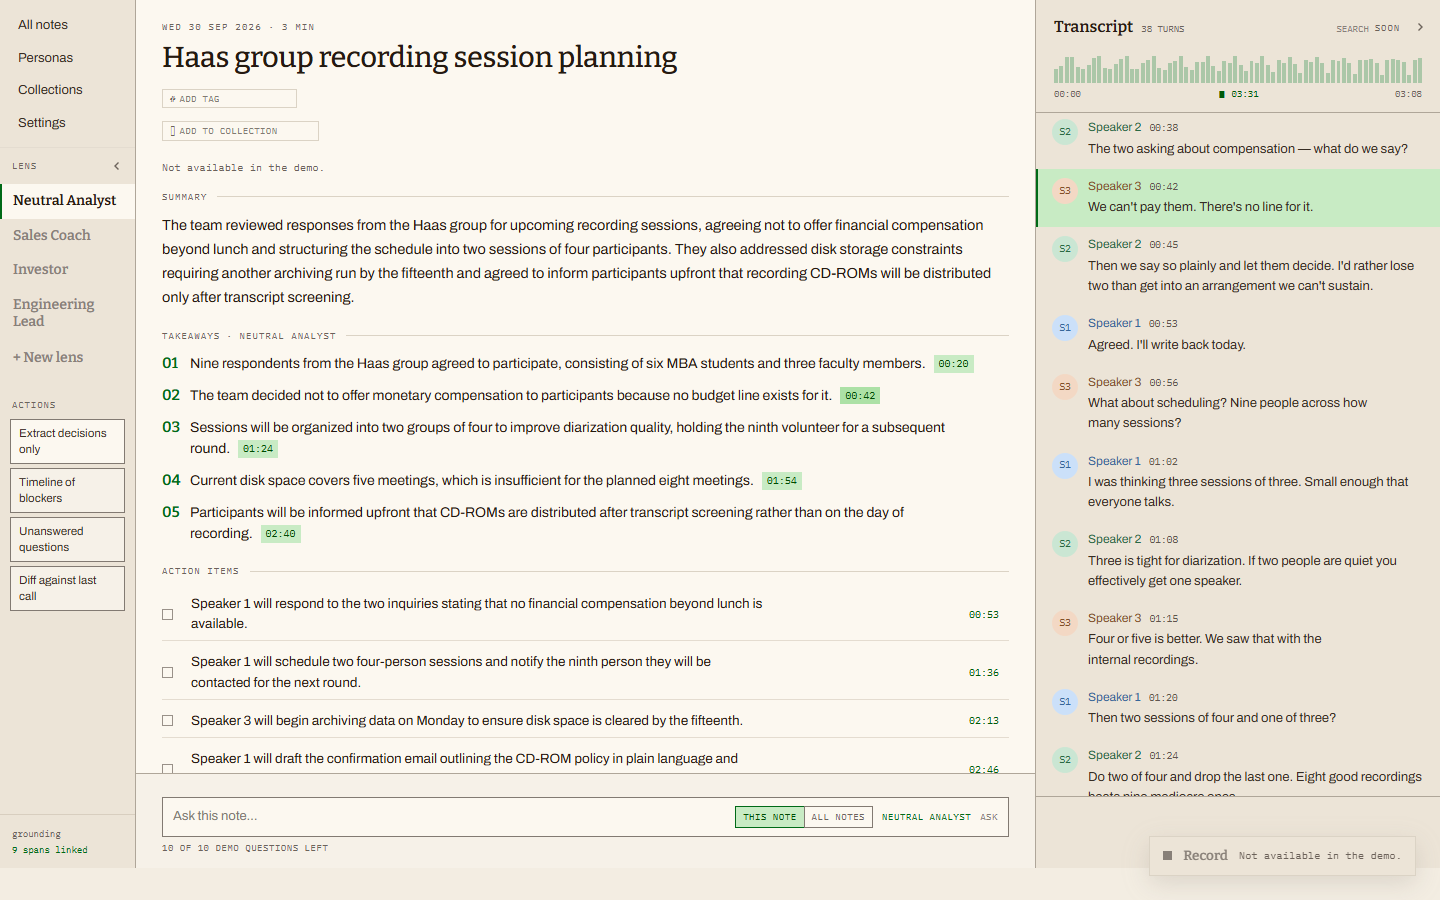
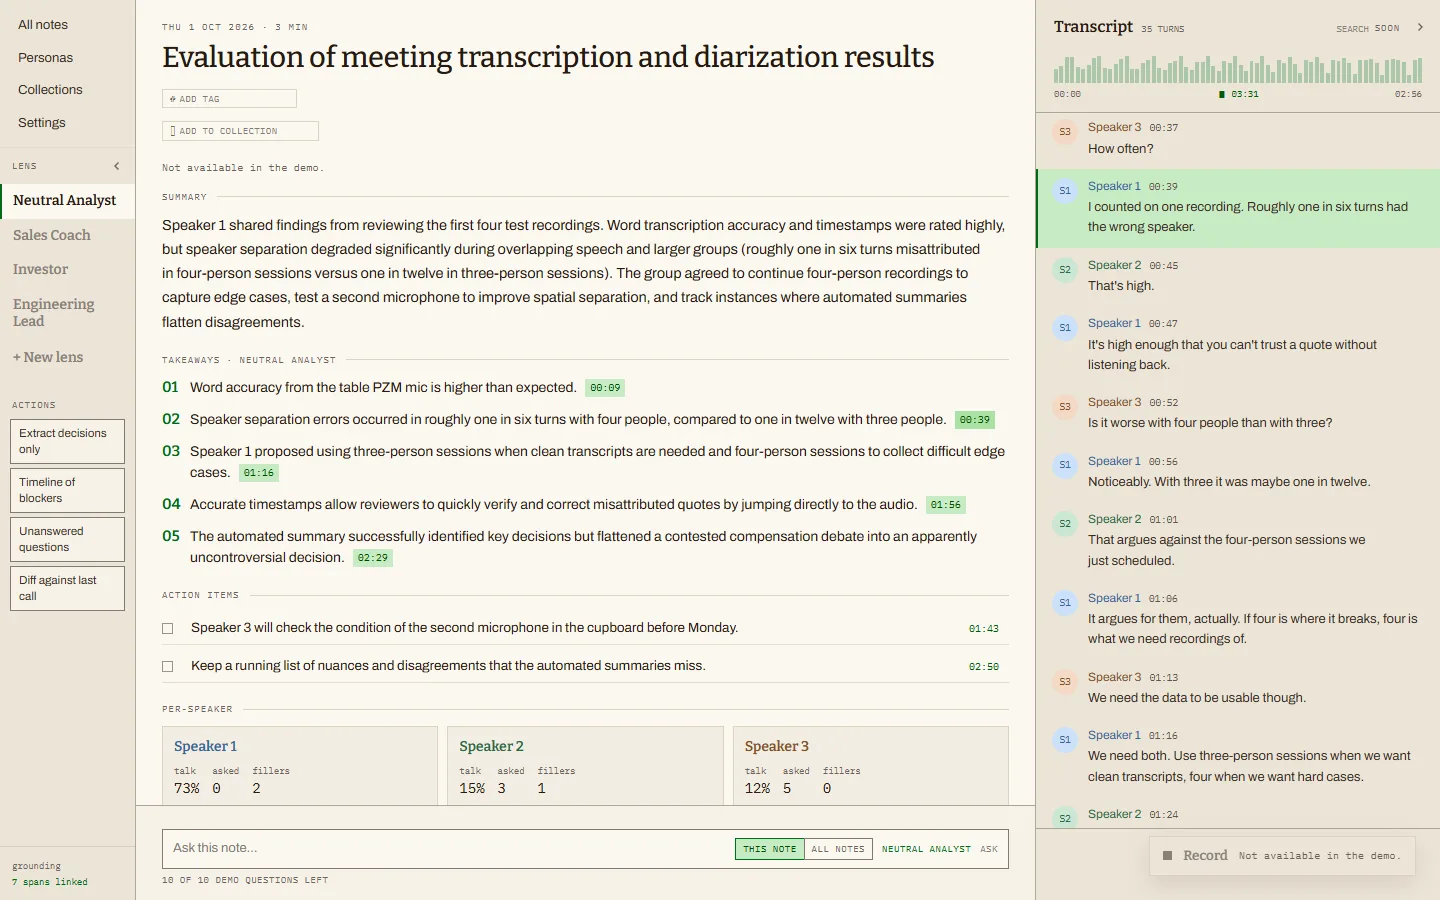
Hero headline stays on three lines at 1024-1200px; newer Squid Ink and Meetup pictures
The home h1 wrapped to four lines between 1024 and 1200px wide (measured on the live site), past the three-line rule. From 1024px up it now uses clamp(2.75rem, calc(6vw - 2px), 4.75rem): three lines at 1024, 1100, 1152, 1200 and 1280.

Swaps squid-ink.webp for the app's newer showcase note picture, and meetup-thumb.webp for a 816x510 crop of the app's showcase list view.

diff --git a/components/home-hero.tsx b/components/home-hero.tsx
@@ -127,7 +127,7 @@ export function HomeHero({
                   is where most of the added confidence actually comes from —
                   more than the 4px. */}
               <h1
-                className="text-[clamp(2.75rem,6.6vw,4.75rem)] leading-[0.92] font-bold tracking-[-0.05em]"
+                className="text-[clamp(2.75rem,6.6vw,4.75rem)] min-[1024px]:text-[clamp(2.75rem,calc(6vw-2px),4.75rem)] leading-[0.92] font-bold tracking-[-0.05em]"
                 style={{ textWrap: 'pretty' }}
               >
                 We build the systems your business runs on.

diff --git a/docs/PLAYBOOK.md b/docs/PLAYBOOK.md
@@ -176,9 +176,9 @@ Current set, all `.webp`:
 - `sarah-poster.webp` — AI Voice Receptionist, was the hero until 2026-10-02 and is **unused by the hero now.** Real desktop dashboard: customer profile, live conversation feed, confirmation email. 1600×900. Still wired as `heroPoster` on its entry in `content/work.ts`, so it only shows if that entry is made the hero again.
 - `sarah-thumb.webp` — AI Voice Receptionist, **compact 16:10 contexts** (case-study row, detail page). **Left as it was on 2026-10-01.** The new capture set (`tools/capture`) shows the client's name on every voice picture, and the voice page keeps the client unnamed, so none was used. This file shows the CRM-sync panel and a tool name; see KNOWN_GAPS. It replaces `sarah-project-thumb.webp`, which was never documented here and was a crop of the retired phone-call simulator — a violation of this section's own hard rule, not merely a naming gap. `bun run check:media` fails the build until the file lands, which is the guard working as intended.
 - `field-reports-thumb.webp` — Field Photo Reports v2. 1440×900, cropped from the app's own `showcase/office-visit-desktop-light.png`: one Visit with a stamped Live photo, an open Issue and Mark Reviewed. Replaced `field-ops-thumb.webp` (v1) on 2026-09-28. **Re-captured 2026-10-01** by `claude-config/tools/capture` (`visit-desktop-light.webp`, used as is, no crop or re-encode). The client's logo is in it, as before.
-- `squid-ink.webp` — AI Meeting Notes & Transcription. 1440×900. Keeps the source repo's working name as a filename; the **page never uses that name**, because the product's public name is unconfirmed upstream. Replaced `crunch-wrap-dashboard.webp` on 2026-09-04. **Re-captured 2026-10-01** by `tools/capture` (`note-desktop-light.webp`, used as is): a real 3-minute note with its summary, takeaways, action items and cited transcript lines.
+- `squid-ink.webp` — AI Meeting Notes & Transcription. 1440×900. Keeps the source repo's working name as a filename; the **page never uses that name**, because the product's public name is unconfirmed upstream. Replaced `crunch-wrap-dashboard.webp` on 2026-09-04. **Re-captured 2026-10-01** by `tools/capture` (`note-desktop-light.webp`, used as is): a real 3-minute note with its summary, takeaways, action items and cited transcript lines. **Swapped 2026-10-06** to the newer `note-desktop-light.png` in the app's `showcase/` (same view, converted to webp at quality 82): a different note, with no group name in its title.
 - `tekguyz-crm.webp` — Lead & Pipeline CRM. 1440×900. **Read this before writing any copy near it:** it is the real product's real Reports view (re-captured 2026-10-01 by `tools/capture`, `reports-desktop-light.webp`, used as is), but the tenant shown is `Demo Workspace` and every figure on it is **seeded verification data, not a client result.** It satisfies this section's hard rule (real production UI, not a simulator) and it does **not** license a single number on the page.
-- `meetup-thumb.webp` — Private Meetup App. 1440×900, from the app's own `showcase/sesh-desktop-light.png`: one meetup, with the address hidden until the host approves. Taken in the demo, so every person in it is invented. The app's name shows in its own header, as the client's logo does in `field-reports-thumb.webp`. Added 2026-09-29 (#13 pass 2). **Re-captured 2026-10-01** by `tools/capture` (`list-desktop-light.webp`, used as is): the list view. The capture set's map and meetup pictures are phone-shaped (780×1688) and would crop to a fragment in this 16:10 slot, so they wait for the gallery (#11). Its dates (Oct 1 to 4) go stale within days.
+- `meetup-thumb.webp` — Private Meetup App. 1440×900, from the app's own `showcase/sesh-desktop-light.png`: one meetup, with the address hidden until the host approves. Taken in the demo, so every person in it is invented. The app's name shows in its own header, as the client's logo does in `field-reports-thumb.webp`. Added 2026-09-29 (#13 pass 2). **Re-captured 2026-10-01** by `tools/capture` (`list-desktop-light.webp`, used as is): the list view. The capture set's map and meetup pictures are phone-shaped (780×1688) and would crop to a fragment in this 16:10 slot, so they wait for the gallery (#11). Its dates (Oct 1 to 4) go stale within days. **Swapped 2026-10-06** to a crop of the app's `showcase/seshes-desktop-light.png`: 816×510 at (312, 0), the same list view without the empty sides. This slot is now 816×510, not 1440×900. The app itself is one phone-width column on a desktop screen (tekguyz/meet4weed#125), so some empty side space stays until it gets wide layouts. Its dates (Sep 29 to Oct 2) are older than before and go stale the same way.
 - `advantage-teams-thumb.webp` — Team Performance
 
 **Deleted 2026-09-04** along with their entries: `crunch-wrap-dashboard.webp`, `meeting-organizer-thumb.webp`, `dragonfly-nica-thumb.webp`, `executive-detailer-thumb.webp`. **Deleted 2026-09-28 (#13):** `field-ops-thumb.webp` and `shopify-configurator.webp`. They are gone from `public/media/`, which is deliberate — `check:media` fails the build on a missing poster, so a re-added entry cannot ship a blank frame.

diff --git a/docs/DESIGN.md b/docs/DESIGN.md
@@ -193,7 +193,7 @@ split.
 
 | Where | Ceiling | Leading | Tracking | Source |
 | --- | --- | --- | --- | --- |
-| Home `h1` | **76px** — a local `clamp(2.75rem, 6.6vw, 4.75rem)`, not the token | 0.92 | −0.05em | `components/home-hero.tsx` |
+| Home `h1` | **76px** — a local `clamp(2.75rem, 6.6vw, 4.75rem)`, not the token. From 1024px up it is `clamp(2.75rem, calc(6vw - 2px), 4.75rem)`: measured 2026-10-06, the 6.6vw ramp wrapped to four lines at 1024–1200px, past the three-line rule | 0.92 | −0.05em | `components/home-hero.tsx` |
 | The six `page-hero` routes | **72px** — `--text-hero` | 0.95 | −0.045em | `components/page-hero.tsx:40` |
 
 ~~72px, because the first correction to 76px wrapped to 4 lines, not 3.~~ **That
